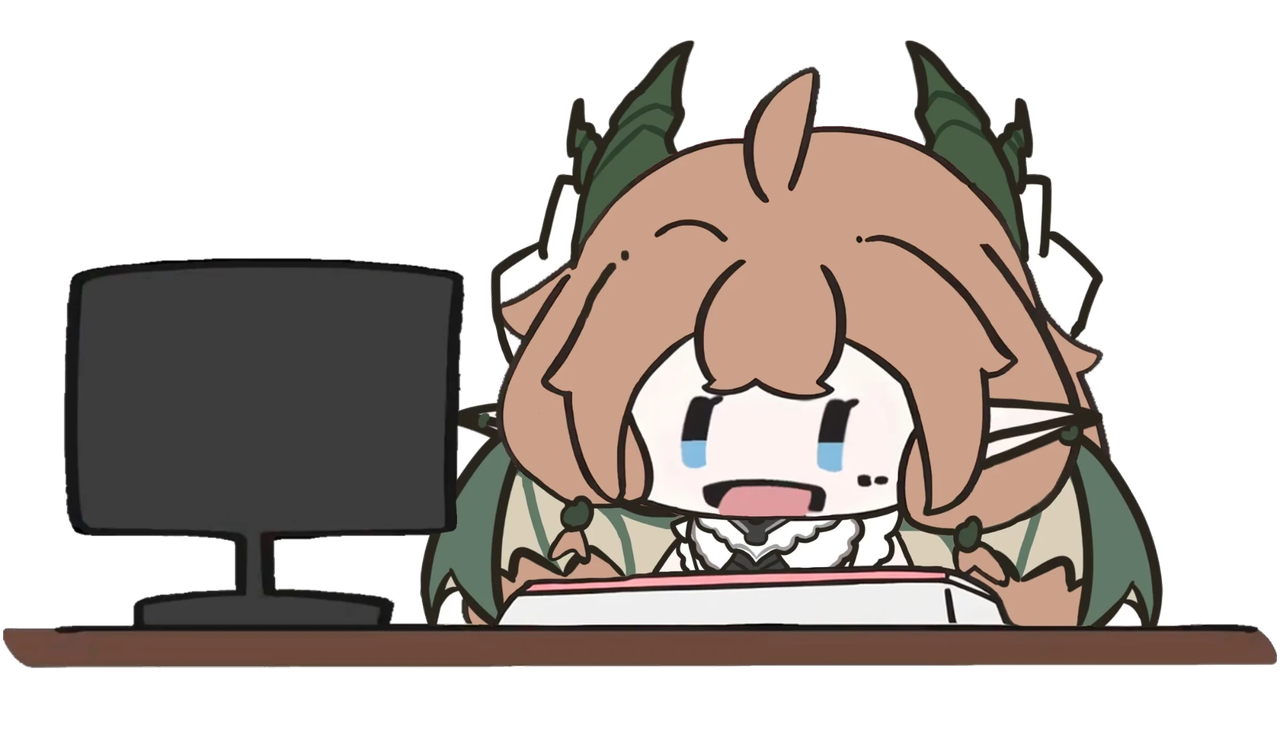
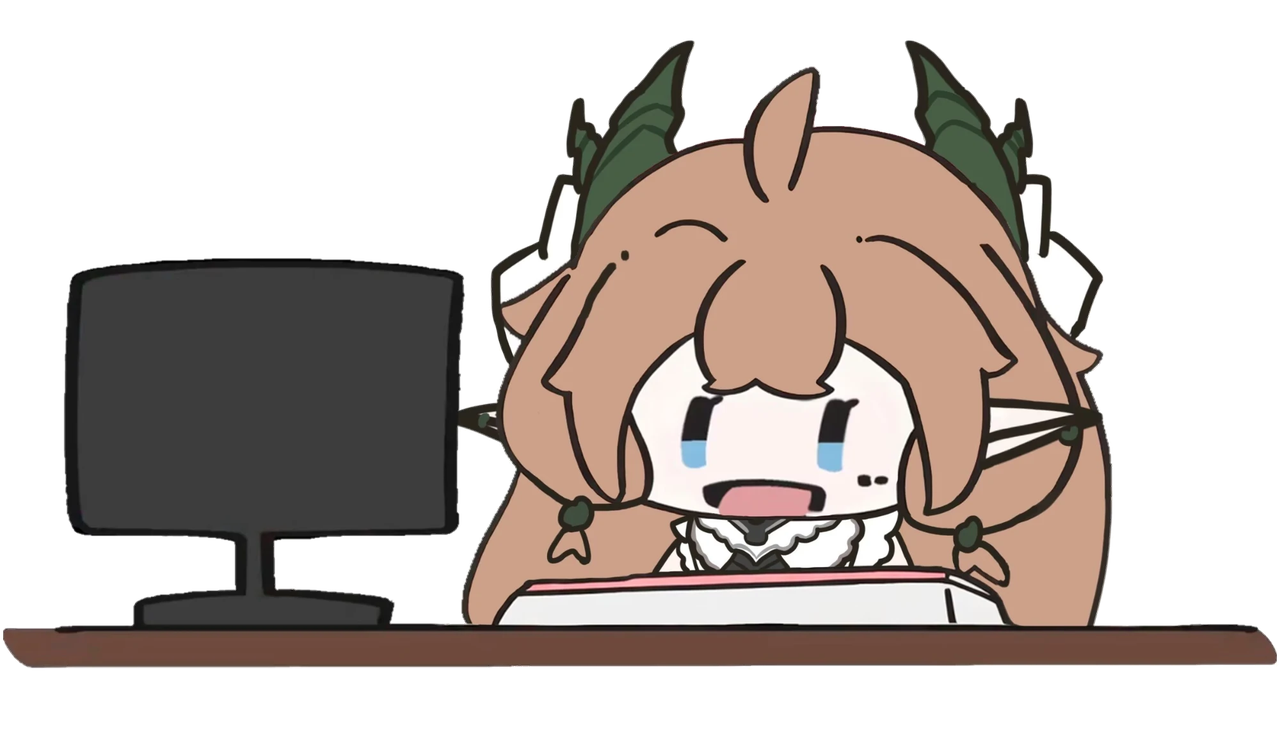
feat: 乃琳法师的冠加流光白星，嘉然然龙扇翅膀，变身改为连续打字 2 秒
- 乃琳法师：make_form_loop.py 新增 Glint，两道斜光扫过冠面，扫到尖角闪白色四角星，40 帧 60ms，第二张图不重写
- 嘉然然龙：翅膀取自扇翅膀视频，头发、龙角和身体用画师原图；formImage 改为去掉翅膀的身体，帧条 19 帧 83ms、半分辨率
- 张开的右翅伸出图片右边，formReach 算出伸出宽度，自己和房间里别人的桌宠在屏幕右边缘都为它留位置
- 变身需要的连续打字从 4 秒降到 2 秒
- 测试覆盖三款的循环帧，允许向右伸出到图片宽度的 1.25 倍

Changed region(s): [[0.3125, 0.5866, 0.5312, 0.8336], [0.6875, 0.5866, 0.9062, 0.8644]]

diff --git a/client/src/App.vue b/client/src/App.vue
@@ -36,7 +36,7 @@ import NamePlate from "./pet/NamePlate.vue";
 import { getPlate, nameBand, plateSize } from "./pet/plates";
 import { remotePetSize } from "./pet/bounds";
 const MainPanel = defineAsyncComponent(() => import("./panel/MainPanel.vue"));
-import { PET_BASE, headAnchor } from "./characters";
+import { PET_BASE, formReach, headAnchor } from "./characters";
 import { starterEmotesOf } from "./items";
 import { characterColor } from "./manifest";
 import { settings } from "./stores/settings";
@@ -78,6 +78,17 @@ const PLATE_GRIP = 14;
 const ownWidth = computed(() =>
   Math.max(barWidth.value, Math.round(PET_BASE.width * settings.scale) + PLATE_GRIP * 2));
 const ownSize = ref<Size>({ w: PET_BASE.width * settings.scale, h: PET_BASE.height * settings.scale + 30 });
+/**
+ * Room kept free on the right of a pet for what its second form draws past the picture (an open wing), so the screen
+ * edge never cuts it. Kept in both forms, so the pet does not move when it changes. The own pet already has the
+ * actor's margin beside it.
+ */
+const ownReach = computed(() => {
+  const s = settings.scale;
+  return Math.max(0, Math.ceil(formReach(settings.character) * s - (ownWidth.value - PET_BASE.width * s) / 2));
+});
+const remoteReach = (m: RemoteMember) => Math.ceil(formReach(m.character) * settings.remoteScale);
+const reaching = (size: Size, reach: number): Size => ({ w: size.w + reach, h: size.h });
 /** Height of the strip under the pet, measured while it shows. */
 const stripHeight = ref(36);
 /** The own pet's size with the strip under it, which a docked or folded pet does not have. */
@@ -112,16 +123,16 @@ function onOwnTap() {
 const barShown = computed(() => !settings.clickThrough && (barPinned.value || peek.value));
 const ownPos = computed<Pos>(() => {
   if (settings.petDocked) {
-    const x = clamp({ x: settings.petX, y: 0 }, ownSize.value).x;
-    return peek.value ? clamp({ x, y: dockY(settings.scale) }, fullSize.value) : { x, y: dockY(settings.scale) };
+    const x = clamp({ x: settings.petX, y: 0 }, reaching(ownSize.value, ownReach.value)).x;
+    return peek.value ? clamp({ x, y: dockY(settings.scale) }, reaching(fullSize.value, ownReach.value)) : { x, y: dockY(settings.scale) };
   }
   // Room for the strip is kept under the pet also while the strip is away, so a click can always show it.
-  const size = { w: ownSize.value.w, h: Math.max(ownSize.value.h, fullSize.value.h) };
+  const size = reaching({ w: ownSize.value.w, h: Math.max(ownSize.value.h, fullSize.value.h) }, ownReach.value);
   return settings.petX < 0 ? defaultPetPos(size) : clamp({ x: settings.petX, y: settings.petY }, size);
 });
 function placeOwnDrag(p: Pos): Pos {
   peek.value = false;
-  const placed = placePet(p, fullSize.value, settings.scale);
+  const placed = placePet(p, reaching(fullSize.value, ownReach.value), settings.scale);
   dragDock.value = placed.docked;
   return placed.pos;
 }
@@ -328,15 +339,15 @@ const remoteDocked = (m: RemoteMember) => {
 const remoteAt = (m: RemoteMember): Pos => {
   if (inFormation.value) return formation.value.cells[formationIndex.value.get(m.id) ?? 0] ?? ownPos.value;
   const p = remotePos.get(memberKey(m)) ?? ownPos.value;
-  const at = clamp(p, remoteSize.value);
+  const at = clamp(p, reaching(remoteSize.value, remoteReach(m)));
   return remoteDocked(m) ? { x: at.x, y: dockY(settings.remoteScale) } : at;
 };
 /** A partner docks on the bottom edge like the own pet; in formation mode the last row does. */
 const placeRemoteDrag = (m: RemoteMember, p: Pos) =>
-  inFormation.value ? dragFormation(m, p) : placePet(p, remoteSize.value, settings.remoteScale).pos;
+  inFormation.value ? dragFormation(m, p) : placePet(p, reaching(remoteSize.value, remoteReach(m)), settings.remoteScale).pos;
 function onRemoteMoved(m: RemoteMember, p: Pos) {
   if (inFormation.value) return saveFormation();
-  const placed = placePet(p, remoteSize.value, settings.remoteScale);
+  const placed = placePet(p, reaching(remoteSize.value, remoteReach(m)), settings.remoteScale);
   placeRemote(memberKey(m), placed.docked ? { ...placed.pos, docked: true } : placed.pos);
 }
 /** A docked partner's name has no room under the desk; it goes over the desk's front instead. */

diff --git a/client/src/characters.test.ts b/client/src/characters.test.ts
@@ -1,5 +1,5 @@
 import { describe, expect, it } from "vitest";
-import { characters, getCharacter, headAnchor } from "./characters";
+import { characters, formReach, getCharacter, headAnchor, PET_BASE } from "./characters";
 import { starterEmotesOf } from "./items";
 
 describe("skins", () => {
@@ -48,15 +48,22 @@ describe("two-form skins", () => {
   });
   it("are the only skins with a moving part", () => {
     expect(Object.values(characters).filter((c) => c.form?.loop).map((c) => c.name).sort())
-      .toEqual(["贝拉炎头队长"]);
+      .toEqual(["乃琳法师", "嘉然然龙", "贝拉炎头队长"].sort());
   });
-  it("loop the moving part within its second picture", () => {
-    const loop = characters["贝拉炎头队长"]!.form!.loop!;
+  // A loop may reach past the top (贝拉炎头队长's flame) or the right edge (嘉然然龙's open wing) of the picture; the
+  // pet draws it outside its box.
+  it.each(["贝拉炎头队长", "乃琳法师", "嘉然然龙"])("loop the moving part of %s over its second picture", (name) => {
+    const loop = characters[name]!.form!.loop!;
     expect(loop.src).toBeTruthy();
     expect(loop.frames).toBeGreaterThan(1);
     expect(loop.ms).toBeGreaterThan(0);
     expect(loop.x).toBeGreaterThanOrEqual(0);
-    expect(loop.x + loop.w).toBeLessThanOrEqual(loop.width);
+    expect(loop.x + loop.w).toBeLessThanOrEqual(loop.width * 1.25);
     expect(loop.y + loop.h).toBeLessThanOrEqual(loop.height);
+  });
+  it("keep room on the right only for a loop past the right edge", () => {
+    expect(formReach("嘉然然龙")).toBeGreaterThan(0);
+    expect(formReach("嘉然然龙")).toBeLessThanOrEqual(PET_BASE.width * 0.25);
+    expect([formReach("乃琳法师"), formReach("贝拉炎头队长"), formReach("嘉然")]).toEqual([0, 0, 0]);
   });
 });

diff --git a/client/src/characters.ts b/client/src/characters.ts
@@ -91,6 +91,12 @@ export function getCharacter(name: string): CharacterAssets | undefined {
   return characters[name] ?? characters[memberOf(name)] ?? characters[defaultCharacter];
 }
 
+/** How far, in base canvas px, the second form's loop draws past the right edge of the picture (嘉然然龙's open wing). */
+export function formReach(name: string): number {
+  const l = getCharacter(name)?.form?.loop;
+  return l ? Math.max(0, ((l.x + l.w) / l.width - 1) * PET_BASE.width) : 0;
+}
+
 /** Skin folder names are the member name followed by the collection name. */
 export const skinSeries = (name: string) => name.slice(memberOf(name).length);
 

diff --git a/client/src/pet/SkinForm.ts b/client/src/pet/SkinForm.ts
@@ -11,7 +11,7 @@ export interface FormRules {
   restMs: number;
 }
 
-export const FORM_RULES: FormRules = { holdMs: 4000, gapMs: 1500, restMs: 3000 };
+export const FORM_RULES: FormRules = { holdMs: 2000, gapMs: 1500, restMs: 3000 };
 
 const realTimers: Timers = {
   set: (cb, ms) => setTimeout(cb, ms),

diff --git a/scripts/make_form_loop.py b/scripts/make_form_loop.py
@@ -1,14 +1,17 @@
 #!/usr/bin/env python3
 """Animate the parts a two-form skin's second picture adds, as a short loop.
 
-The second pictures are the first ones plus parts, such as the flame on 贝拉炎头队长's head. The part is
-lifted off the second picture, formImage.webp is written again with the first picture under it, and the part is
-drawn moving in a few frames. The flame burns: its root and outline stay, tongues lick up its sides, ripples climb
-through it, and now and then a small flame breaks off the tip and rises.
+The second pictures are the first ones plus parts. Two kinds of motion:
+- a flame burns (贝拉炎头队长): the flame is lifted off the second picture, formImage.webp is written again with
+  the first picture under it, and the flame is drawn moving: its root and outline stay, tongues lick up its sides,
+  ripples climb through it, and now and then a small flame breaks off the tip and rises;
+- a glint (乃琳法师's crown): the part stays in formImage.webp, and the frames hold only light laid over it, a
+  broad and a narrow stripe sweeping across its flat colour and a star opening on its highest point as they pass.
 PetView lays the frames over the second picture and steps through them while it shows; formLoop.json says
 where they go on the picture and how fast they run.
 
-The sources are the second pictures with the part drawn in, on the aligned 1280 canvas; they are not in git.
+The sources of the flames are the second pictures with the part drawn in, on the aligned 1280 canvas; they are
+not in git. A glint reads formImage.webp.
 Rerun after replacing a source or changing LOOPS:
     server/.venv/bin/python scripts/make_form_loop.py [SOURCE_DIR] [--only SKIN] [--preview PATH]
 
@@ -24,7 +27,7 @@ import math
 from dataclasses import dataclass
 from pathlib import Path
 
-from PIL import Image, ImageChops, ImageFilter
+from PIL import Image, ImageChops, ImageDraw, ImageFilter
 
 ROOT = Path(__file__).resolve().parents[1]
 CHARACTERS = ROOT / "client/src/assets/characters"
@@ -55,10 +58,37 @@ class Flame:
     flicker: float
 
 
-LOOPS: dict[str, Flame] = {
+@dataclass(frozen=True)
+class Glint:
+    # Where the part is on the 1280 canvas.
+    search: tuple[int, int, int, int]
+    frames: int
+    ms: int
+    # The frame the sweep starts on, and how many frames it takes to cross the part.
+    start: int
+    sweep: int
+    # How far the stripes lean: pixels to the right per pixel up.
+    slant: float
+    # Widths of the broad stripe, the gap behind it and the narrow stripe after that, in pixels.
+    stripes: tuple[int, int, int]
+    # How far the stripes' colour goes from the part's flat colour towards warm white (0..1).
+    lift: float
+    # The star on the part's highest point: outer radius in pixels and how many frames it shows, opening as the
+    # broad stripe reaches it; filled with `star_fill` and outlined with `ink`, the drawing's outline colour.
+    star: int
+    star_frames: int
+    star_fill: tuple[int, int, int]
+    ink: tuple[int, int, int]
+
+
+LOOPS: dict[str, Flame | Glint] = {
     "贝拉炎头队长": Flame(
         search=(600, 0, 900, 262), frames=12, ms=75, lick=0.11, ripple=0.06,
         pieces=((0.0, -0.08), (0.5, 0.1)), piece_life=0.45, piece_rise=0.3, flicker=0.07,
+    ),
+    "乃琳法师": Glint(
+        search=(570, 320, 980, 475), frames=40, ms=60, start=6, sweep=12, slant=0.5, stripes=(34, 8, 10), lift=0.6,
+        star=20, star_frames=7, star_fill=(255, 255, 255), ink=(39, 28, 26),
     ),
 }
 
@@ -223,19 +253,107 @@ def flame_frames(base: Image.Image, form: Image.Image, loop: Flame):
     return body, frames, box
 
 
-def build(skin: str, loop: Flame, source_dir: Path, preview: Path | None) -> None:
+def stripe_cover(u: float, left: float, right: float) -> float:
+    """How much of a pixel centred at u lies between left and right."""
+    return max(0.0, min(u + 0.5, right) - max(u - 0.5, left))
+
+
+def star_image(radius: float, turn: float, fill: tuple[int, int, int], ink: tuple[int, int, int]) -> Image.Image:
+    """A four-pointed star, one flat colour with an outline, drawn large and scaled down so its edges are smooth."""
+    scale = 4
+    side = math.ceil(2 * radius + 8) * scale
+    im = Image.new("RGBA", (side, side), (0, 0, 0, 0))
+    centre = side / 2
+    points = []
+    for i in range(8):
+        r = radius * scale * (1.0 if i % 2 == 0 else 0.4)
+        a = turn + i * math.pi / 4 - math.pi / 2
+        points.append((centre + r * math.cos(a), centre + r * math.sin(a)))
+    ImageDraw.Draw(im).polygon(points, fill=(*fill, 255), outline=(*ink, 255), width=max(1, round(radius * 0.12 * scale)))
+    return im.resize((side // scale, side // scale), Image.Resampling.LANCZOS)
+
+
+def glint_frames(base: Image.Image, form: Image.Image, loop: Glint):
+    """Frames of light over the part: the stripes take the part's flat colour towards warm white, fully on the
+    flat colour and less on the soft edge towards its outline, so the outline stays dark. Most frames are empty."""
+    # Where a line of the first picture under the part comes close to its colour the difference misses single
+    # pixels; closing the mask takes them back.
+    mask = changed(base, form, loop.search).filter(ImageFilter.MaxFilter(3)).filter(ImageFilter.MinFilter(3))
+    x0, y0, x1, y1 = mask.getbbox()
+    fp, mp = form.load(), mask.load()
+    inside = [(x, y) for y in range(y0, y1) for x in range(x0, x1) if mp[x, y]]
+    lum = lambda c: (c[0] + c[1] + c[2]) / 3
+    flat = sorted(fp[x, y][:3] for x, y in inside if lum(fp[x, y]) > lum(loop.ink) + 90)
+    fill = flat[len(flat) // 2]
+    dark, light = lum(loop.ink), lum(fill)
+    weight = {}
+    for x, y in inside:
+        c = fp[x, y]
+        if c[3] < 255 or lum(c) > light + 25:
+            continue
+        w = min(1.0, max(0.0, (lum(c) - dark) / (light - dark)))
+        # The part is warm; grey hair the closing took in is not lit.
+        if w > 0 and c[0] - c[2] >= 0.5 * (fill[0] - fill[2]) * w:
+            weight[x, y] = w
+    lit = tuple(round(f + loop.lift * (t - f)) for f, t in zip(fill, (255, 250, 225)))
+
+    # A stripe is the set of pixels with the same u; u grows to the right and leans the stripes like /.
+    mid = (y0 + y1) / 2
+    at = lambda x, y: x + loop.slant * (y - mid)
+    broad, gap, narrow = loop.stripes
+    first, last = at(x0, y0) - broad, at(x1, y1) + gap + narrow
+    fronts = [first + (last - first) * (j + 0.5) / loop.sweep for j in range(loop.sweep)]
+
+    top = min(y for _, y in inside)
+    row = [x for x, y in inside if y == top]
+    tip = (sum(row) / len(row), float(top))
+    opens = loop.start + next(j for j, p in enumerate(fronts) if p + broad / 2 >= at(*tip))
+
+    size = form.size
+    frames = []
+    for k in range(loop.frames):
+        out = Image.new("RGBA", size, (0, 0, 0, 0))
+        j = k - loop.start
+        if 0 <= j < loop.sweep:
+            p = fronts[j]
+            op = out.load()
+            for (x, y), w in weight.items():
+                u = at(x, y)
+                cover = min(1.0, stripe_cover(u, p, p + broad) + stripe_cover(u, p - gap - narrow, p - gap))
+                if cover > 0:
+                    op[x, y] = (*lit, round(255 * cover * w))
+        i = k - opens
+        if 0 <= i < loop.star_frames:
+            t = (i + 0.5) / loop.star_frames
+            radius = loop.star * math.sin(math.pi * t) ** 0.6
+            if radius >= 2:
+                star = star_image(radius, math.radians(25) * t, loop.star_fill, loop.ink)
+                out.alpha_composite(star, (round(tip[0] - star.width / 2), round(tip[1] - star.height / 2)))
+        frames.append(out)
+    union = frames[0].getchannel("A")
+    for im in frames[1:]:
+        union = ImageChops.lighter(union, im.getchannel("A"))
+    box = union.getbbox()
+    return [im.crop(box) for im in frames], box
+
+
+def build(skin: str, loop: Flame | Glint, source_dir: Path, preview: Path | None) -> None:
     folder = CHARACTERS / skin
     base = Image.open(folder / "bgImage.webp").convert("RGBA")
-    form = Image.open(source_dir / f"{skin}.webp").convert("RGBA")
-    if base.size != form.size:
-        raise SystemExit(f"{skin}: the source is {form.size}, the first picture {base.size}")
-    body, frames, box = flame_frames(base, form, loop)
+    if isinstance(loop, Flame):
+        form = Image.open(source_dir / f"{skin}.webp").convert("RGBA")
+        if base.size != form.size:
+            raise SystemExit(f"{skin}: the source is {form.size}, the first picture {base.size}")
+        body, frames, box = flame_frames(base, form, loop)
+        body.save(folder / "formImage.webp", "WEBP", lossless=True, quality=100, method=6)
+    else:
+        form = body = Image.open(folder / "formImage.webp").convert("RGBA")
+        frames, box = glint_frames(base, form, loop)
     cw, ch = box[2] - box[0], box[3] - box[1]
     strip = Image.new("RGBA", ((cw + GAP) * loop.frames, ch), (0, 0, 0, 0))
     for k, im in enumerate(frames):
         strip.paste(im, (k * (cw + GAP), 0))
 
-    body.save(folder / "formImage.webp", "WEBP", lossless=True, quality=100, method=6)
     # The part is painted soft, so the strip takes lossy colour with exact alpha.
     strip.save(folder / "formLoop.webp", "WEBP", quality=90, alpha_quality=100, method=6)
     # Where a frame goes on the second picture, in its pixels; the strip is the frames side by side.

diff --git a/ASSETS.md b/ASSETS.md
@@ -38,8 +38,8 @@ assets-packs/
 - 耳朵、头饰超出成员画布顶部时，把图片向上加高，不要裁掉。桌宠按画布宽度显示、底部对齐，加高的部分画在画布上方，`HEADS` 的 y 为负数。换图后运行 `scripts/build_previews.py`。
 - 在 `scripts/asset_catalog.py` 的 `SKINS` 中增加一项，重新生成两份 manifest。`name` 是皮肤 ID（成员名加系列名，与文件夹同名），发布后不再改动；要换显示名时在 `SKIN_TITLES` 里写新名字，界面显示成员名加新名字（如 `嘉然帝江`）。`since` 写带上这批图片的客户端版本：服务端不把它放进更老客户端的共鸣池，客户端把 `since` 最新的一批作为开屏公告展示一次。对方客户端缺少该皮肤素材时显示成员原皮。
 - 新名字里有字体子集没有的字时，重新生成界面字体（`scripts/build_ui_assets.py`）。
-- 双形态皮肤在同一文件夹再放 `formImage.webp`：同一画布、同一对齐方式的第二张图。桌宠连续打字 4 秒（中间停顿不超过 1.5 秒）换成第二张，停手 3 秒换回；别人的桌宠按收到的敲击计时，不需要额外消息（`pet/SkinForm.ts`）。图鉴、头像和开屏公告只用第一张。`build_previews.py` 为它生成 `form-480`、`form-960`。
-- 第二张图里的某个部件可以动起来：`scripts/make_form_loop.py` 把部件从画了它的第二张图里分离出来，重写 `formImage.webp`（部件下面补回第一张图的像素），再画成几帧横排的 `formLoop.webp`，位置和帧时长写在 `formLoop.json`。第二张图显示时桌宠逐帧播放。源图是对齐后画着部件的第二张图，不进仓库，放在 `docs/assets/form-loops/<皮肤 ID>.webp`。贝拉炎头队长头顶的火焰用这种方式：根部和轮廓不动，火舌沿两肩往上舔，纹路往上流，火尖不时飘走一小团缩小的火苗，亮度轻微闪动；12 帧、每帧 75 毫秒，胸口的火纹不动。
+- 双形态皮肤在同一文件夹再放 `formImage.webp`：同一画布、同一对齐方式的第二张图。桌宠连续打字 2 秒（中间停顿不超过 1.5 秒）换成第二张，停手 3 秒换回；别人的桌宠按收到的敲击计时，不需要额外消息（`pet/SkinForm.ts`）。图鉴、头像和开屏公告只用第一张。`build_previews.py` 为它生成 `form-480`、`form-960`。
+- 第二张图里的某个部件可以动起来：`scripts/make_form_loop.py` 把部件从画了它的第二张图里分离出来，重写 `formImage.webp`（部件下面补回第一张图的像素），再画成几帧横排的 `formLoop.webp`，位置和帧时长写在 `formLoop.json`。第二张图显示时桌宠逐帧播放。源图是对齐后画着部件的第二张图，不进仓库，放在 `docs/assets/form-loops/<皮肤 ID>.webp`。贝拉炎头队长头顶的火焰用这种方式：根部和轮廓不动，火舌沿两肩往上舔，纹路往上流，火尖不时飘走一小团缩小的火苗，亮度轻微闪动；12 帧、每帧 75 毫秒，胸口的火纹不动。乃琳法师的冠用另一种动法：冠留在 `formImage.webp` 里不重写，帧里只有光。一宽一窄两道斜光条从左往右扫过冠面，只提亮卡其色，描边不变；扫到正中的尖角时，尖上闪一下白色四角星，带画面的深色描边。40 帧、每帧 60 毫秒，一圈 2.4 秒，第 6 帧开始扫、扫 12 帧，其余帧是空的。嘉然然龙的翅膀不走这个脚本：用画师第二张图生成一段扇翅膀视频，按显示器、桌沿和脸对齐到画布后只取翅膀像素，头发、龙角和身体都用画师的图；翅膀在长头发和头两侧白色骨架前面，在头、龙角、显示器、键盘和桌子后面。`formImage.webp` 是去掉翅膀的身体，帧条 19 帧、每帧 83 毫秒，按半分辨率存。张开的右翅伸出图片右边约 200 画布像素，桌宠画在框外，桌面在屏幕右边缘为它留出位置。视频和脚本（`wingvid2.py`）放在 `docs/assets/form-loops/嘉然然龙-视频版/`，不进仓库。
 
 画师修正版已替换乃琳山海经、乃琳睡衣派对、贝拉睡衣派对，并新增贝拉2025生日。乃琳山海经、贝拉2025生日、贝拉睡衣派对按显示器和桌面对齐成员原皮，宽 1920，下方 1079 行与成员画布一致；上方加高 79–95 行，放下超出画布的耳朵和头饰（2026-11-09 从 2400×1800 原图补回，此前被裁掉）。睡衣乃琳沿用画师提供的 1920×1079 原图，耳朵贴近顶边，原图上方没有更多内容。乃琳2025生日的原图与乃琳原皮同为 1920×1079，桌面和显示器位置一致，直接使用。冬日奇迹三款（1.2.0）的原图是 2000×1500，按桌面上沿对齐成员原皮后裁掉下方空白，缩到 1280 宽。
 

diff --git a/docs/ARCHITECTURE.md b/docs/ARCHITECTURE.md
@@ -106,7 +106,7 @@ Colours: the interface uses one coral, `#FC966E`, in `ui/tokens.css`. Member col
 - Bubbles over the own pet: `EmoteBubble`, `ComboBubble`, `DuelBubble` (with `StakeKeys`), `DdzBubble` (a 斗地主 invite, and the way back to the table on the own turn), `PokeBubble`, `NudgeBubble` (reminders, tomato timer, todos), `CooldownBubble` (input faster than a hand), `AccessBubble` (macOS permission), `AdminBubble` (an elevated game the hook cannot hear). `duelPick.ts` opens poke, duel and profile keys over a partner's pet.
 - Tomato timer: `pomodoro.ts`, `stores/pomodoro.ts`, `PomodoroChip.vue`. The system notice goes through `notify` in `lib.rs` (tauri-plugin-notification).
 - Two-form skins (`pet/SkinForm.ts`): `PetView` lays `formImage.webp` over the first picture after a stretch of continuous typing and takes it off when idle. The own pet times its press edges, another member's pet its tap batches, so no message carries the form. Album, avatars and the spotlight show the first picture.
-- Form loops: a skin with `formLoop.webp` (frames side by side) and `formLoop.json` (where on the second picture, how many, how long each) has the parts the second picture adds move. `PetView` mounts the loop only while the second form shows and steps a transform through the frames, so it costs nothing at rest.
+- Form loops: a skin with `formLoop.webp` (frames side by side) and `formLoop.json` (where on the second picture, how many, how long each) has the parts the second picture adds move. `PetView` mounts the loop only while the second form shows and steps a transform through the frames, so it costs nothing at rest. A loop may reach past the right edge of the picture (an open wing); the pet draws it outside its box, and the desk keeps that much room free at the right screen edge for the own pet and partners (`formReach`).
 
 ### Panel (`panel/`)
 
@@ -185,7 +185,7 @@ A skin is one entry in `SKINS` (`scripts/asset_catalog.py`) plus `client/src/ass
 - `since` is the release that ships the picture. The server keeps the skin out of older clients' pools, so the server can be deployed first.
 - The skins sharing the newest `since` are that release's launch spotlight (`stores/spotlight.ts`, `panel/SkinSpotlight.vue`), shown once per device, titled with their series or 新皮肤 when the batch mixes series.
 - A two-form skin adds `formImage.webp` on the same canvas; `build_previews.py` writes its `form-480` and `form-960` too.
-- To move the parts the second picture adds, add the skin to `LOOPS` in `scripts/make_form_loop.py` (a flame that burns) and put the second picture with the parts drawn in under `docs/assets/form-loops/`. The script writes `formImage.webp` without them, plus `formLoop.webp` and `formLoop.json`. Rebuild the previews after it.
+- To move the parts the second picture adds, add the skin to `LOOPS` in `scripts/make_form_loop.py` (a flame that burns, or a glint that sweeps over the part). For a flame, put the second picture with the parts drawn in under `docs/assets/form-loops/`; the script writes `formImage.webp` without them. A glint leaves `formImage.webp` as it is. Both write `formLoop.webp` and `formLoop.json`. Rebuild the previews after it.
 - Tests count skins and cards from the manifest, so they need no change.
 
 ## Performance notes
